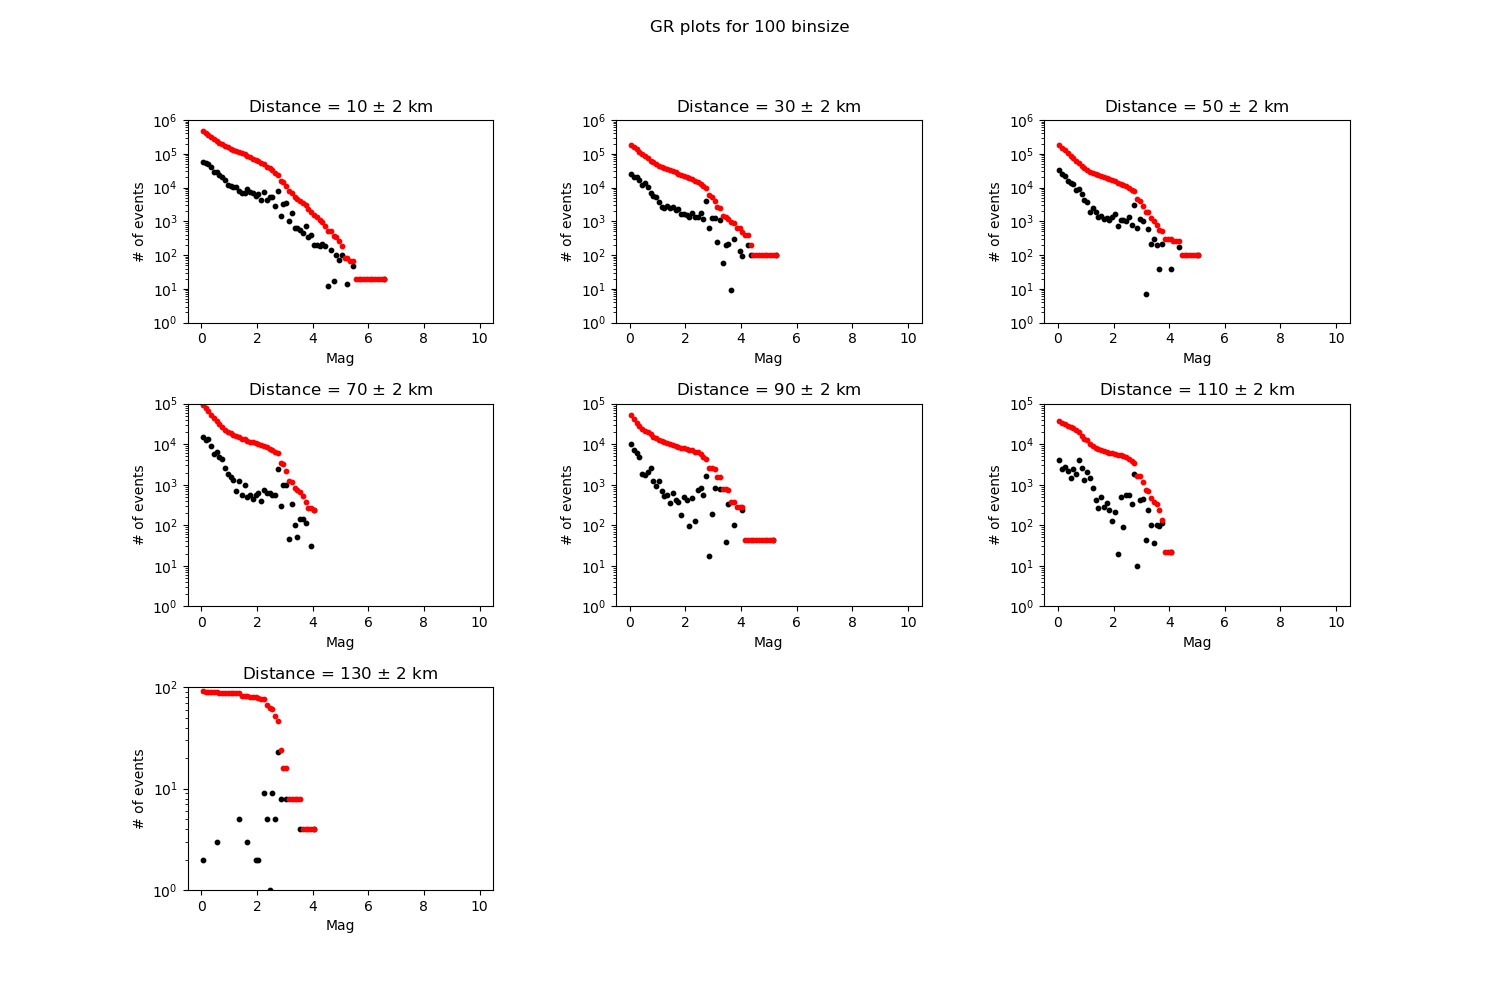
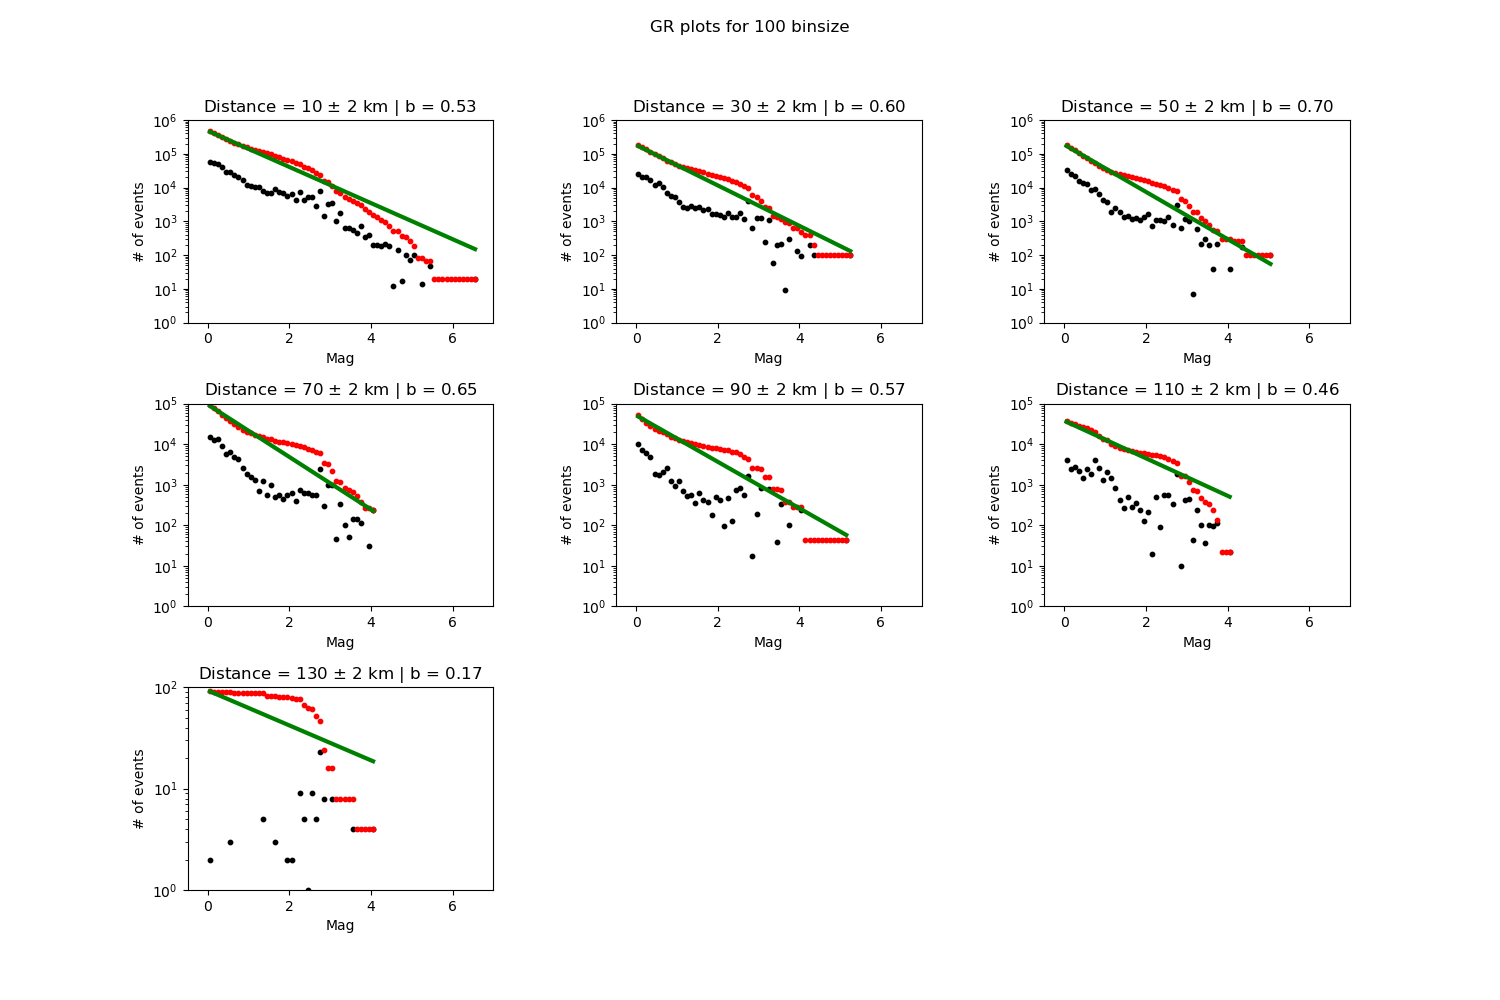
bVal plots

diff --git a/softs/4_MC-Plots/scripts/plotGR.py b/softs/4_MC-Plots/scripts/plotGR.py
@@ -1,24 +1,44 @@
 import pandas as pd
 import numpy as np
 import matplotlib.pyplot as plt
+from itertools import chain
 from math import ceil, log10
+
+
 
 # path
 GRPath = './outputs/MC/GRTesting/mag-Mct/bin_100'
 GRfig = './figs/MC/GRTesting/mag-Mct/bin_100'
 
+# prams
+Rtol = 2
 # Mains
+# load ValDF
+bDic = pd.read_pickle(GRPath + '/bValDF.pkl')
+bDf = pd.DataFrame()
+bDf['R'] = list(chain(*bDic['R']))
+bDf['R_bVal'] = bDic['R_bVal']
 
 fig = plt.figure(figsize=(15,10))
 j = 1
 for i in range(10, 131, 20):
     GRfile = GRPath + '/GRDF_' + str(i) + '.pkl'
 
+    # get R_bVal for given R (i)
+    bDfNew = bDf[(bDf['R'] > i-Rtol) & (bDf['R'] < i+Rtol)]
+
     # read df
     GRdf = pd.read_pickle(GRfile)
     # calculate cumulative numbers
     magCum = list(reversed(np.cumsum(list(reversed(GRdf['magHist'])))))
 
+    b = np.mean(bDfNew['R_bVal'])
+    a = np.log10(magCum[0])
+    midMag = np.array(GRdf['midMag'])[0]
+    magHist = np.array(GRdf['magHist'])
+    
+    mXval = midMag[magHist != 0]
+    bYval = 10**(a - b*mXval)
     
     ax = fig.add_subplot(3, 3, j)
     ax.set_yscale('log')
@@ -26,11 +46,11 @@ for i in range(10, 131, 20):
     ax.set_ylabel('# of events')
     ylim = ceil(log10(max(magCum)))
     ax.set_ylim(1, 10**ylim)
-    ax.scatter(GRdf['midMag'], GRdf['magHist'], c='black', s=10)
-    ax.scatter(GRdf['midMag'], magCum, c='red', s=10)
-    ax.set_title("Distance = %d $\pm$ 2 km" %(i))
-
-
+    ax.set_xlim(-0.5, 7)
+    ax.scatter(midMag, magHist, c='black', s=10)
+    ax.plot(mXval, bYval, c='g', lw=3)
+    ax.scatter(midMag, magCum, c='red', s=10)
+    ax.set_title("Distance = %d $\pm$ 2 km | b = %4.2f" %(i, b))
 
     j += 1
 
